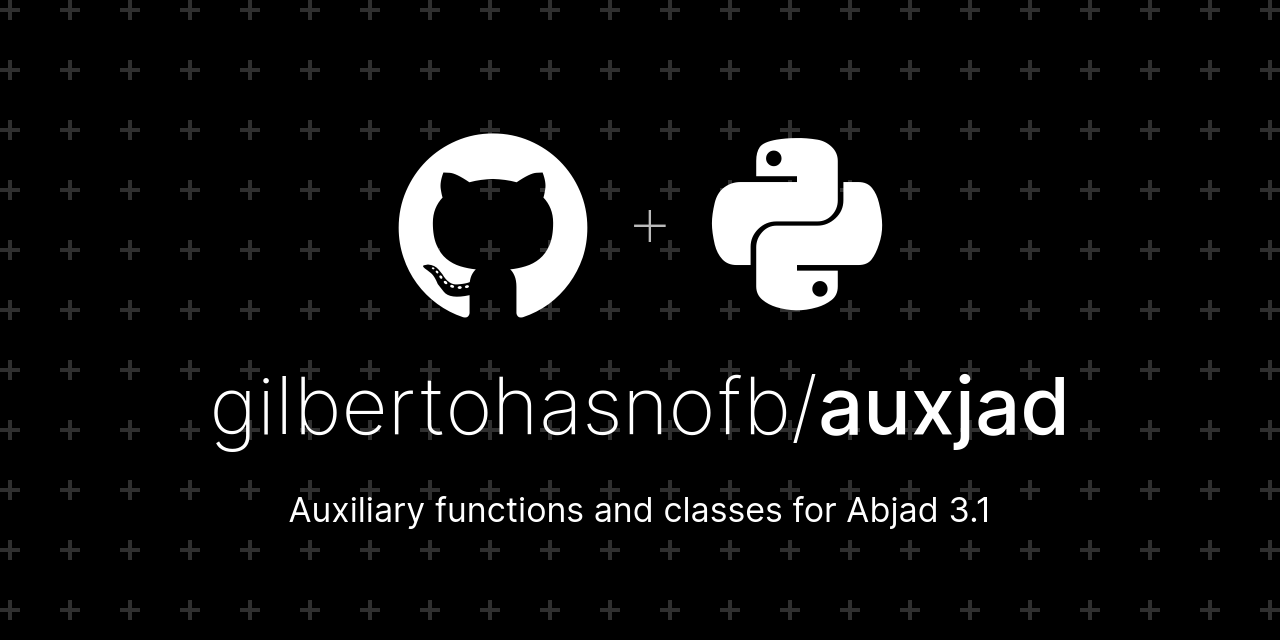
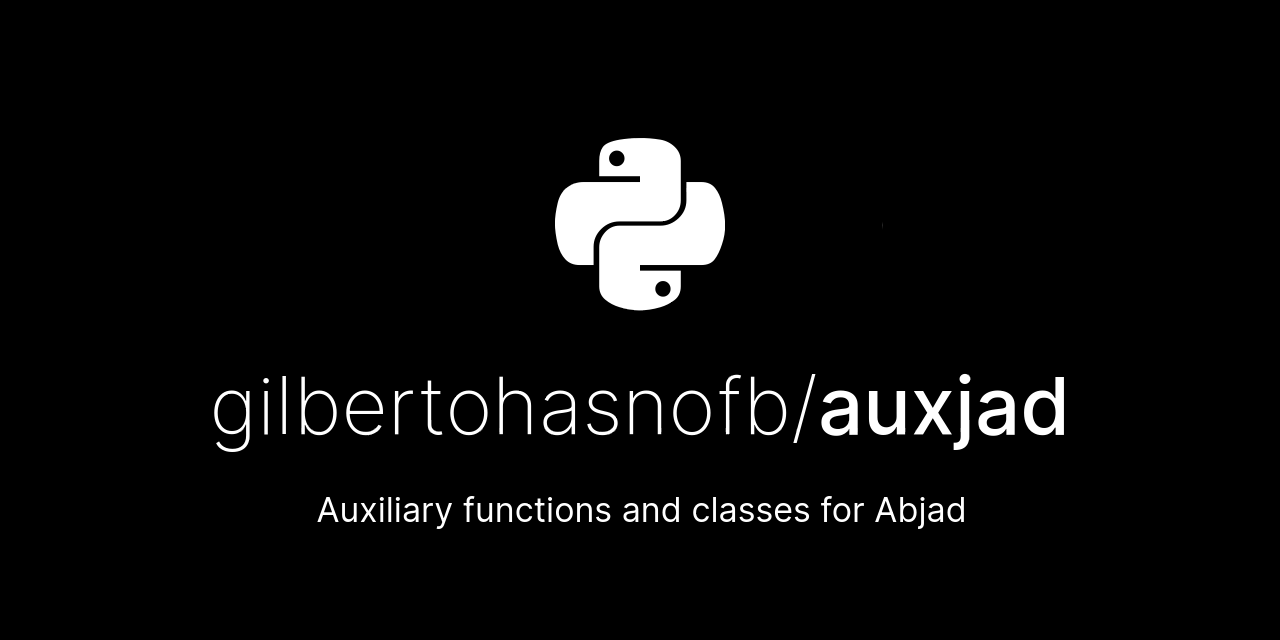
new png image, not using socialify any longer

diff --git a/auxjad/spanners/half_piano_pedal.py b/auxjad/spanners/half_piano_pedal.py
@@ -299,5 +299,7 @@ def half_piano_pedal(argument: Union[abjad.Component, abjad.Selection],
                       )
 
 
+### EXTENSION FUNCTIONS ###
+
 abjad.spanners.half_piano_pedal = half_piano_pedal
 abjad.half_piano_pedal = half_piano_pedal

diff --git a/README.rst b/README.rst
@@ -1,4 +1,4 @@
-|auxjad-socialify|
+|Auxjad image|
 
 |PyPI| |Build| |Python versions| |License| |Bug report| |Documentation|
 
@@ -27,8 +27,8 @@ Or if you are using virtual environments, simply use::
 You will also need to install `Python 3.9`_ or higher, as well as `Abjad 3.4`_
 and `LilyPond`_.
 
-.. |auxjad-socialify| image:: https://socialify.git.ci/gilbertohasnofb/auxjad/image?description=1&font=Inter&language=1&owner=1&pattern=Plus&theme=Dark
-    :target: https://github.com/gilbertohasnofb/auxjad
+.. |Auxjad image| image:: https://raw.githubusercontent.com/gilbertohasnofb/auxjad/master/assets/auxjad.png
+   :target: https://github.com/gilbertohasnofb/auxjad
 .. |PyPI| image:: https://img.shields.io/pypi/v/auxjad.svg?style=for-the-badge
    :target: https://pypi.python.org/pypi/auxjad
 .. |Build| image:: https://img.shields.io/travis/gilbertohasnofb/auxjad?style=for-the-badge

diff --git a/docs/index.rst b/docs/index.rst
@@ -1,4 +1,4 @@
-|auxjad-socialify|
+|Auxjad image|
 
 Welcome to Auxjad's documentation!
 ==================================
@@ -54,9 +54,7 @@ and `LilyPond`_.
 .. _`Python 3.9`: https://www.python.org/
 .. _LilyPond: http://lilypond.org/
 
-.. |auxjad-socialify| image:: https://socialify.git.ci/gilbertohasnofb/auxjad/image?description=1&font=Inter&language=1&owner=1&pattern=Plus&theme=Dark
-    :target: https://github.com/gilbertohasnofb/auxjad
-.. |GitHub| image:: https://img.shields.io/badge/GitHub-auxjad-blue?style=for-the-badge&logo=github
+.. |Auxjad image| image:: https://raw.githubusercontent.com/gilbertohasnofb/auxjad/master/assets/auxjad.png
    :target: https://github.com/gilbertohasnofb/auxjad
 .. |PyPI| image:: https://img.shields.io/pypi/v/auxjad.svg?style=for-the-badge
    :target: https://pypi.python.org/pypi/auxjad
